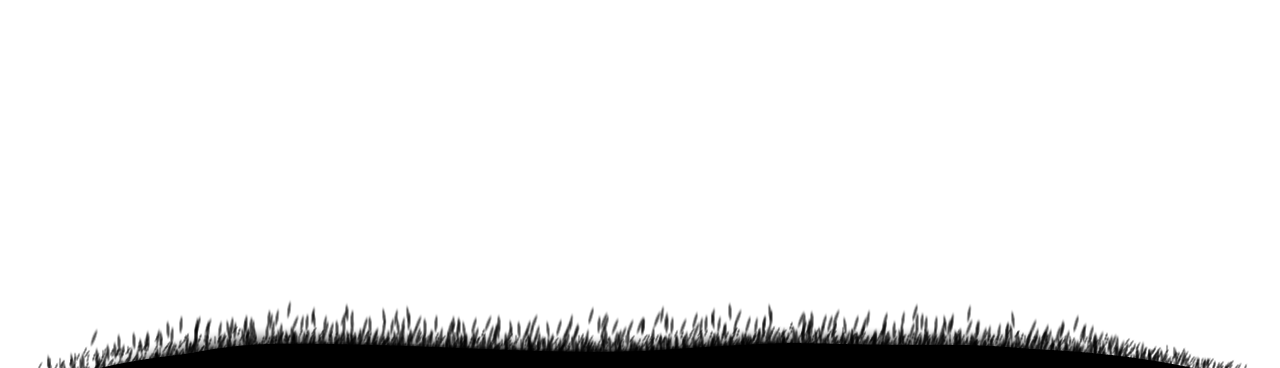
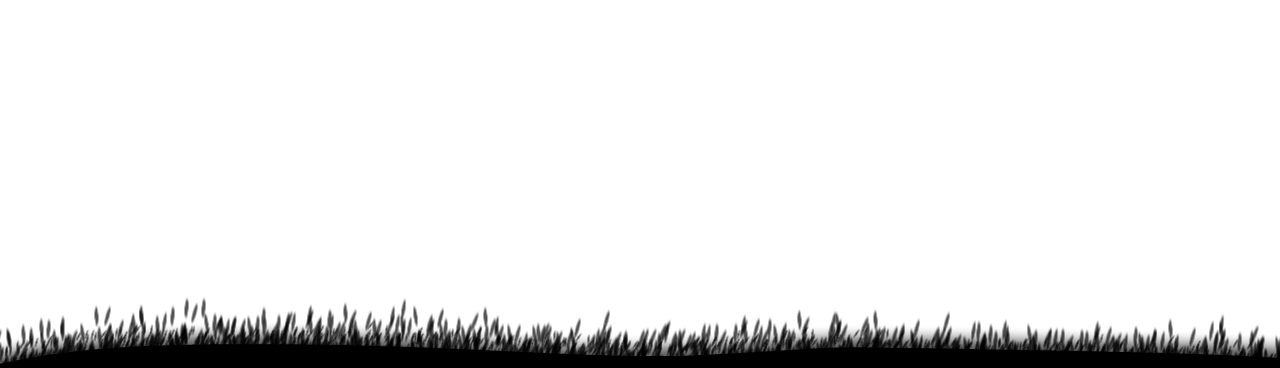
Lyndas review tweaks

Changed region(s): [[0.0, 0.8071, 1.0, 1.0]]

diff --git a/pages/index.js b/pages/index.js
@@ -88,7 +88,7 @@ export default function Home() {
           <h2 className="text-gray-50">SERVICES</h2>
           <h3>What I offer</h3>
 
-          <div className="grid md:grid-cols-3 gap-8">
+          <div className="grid lg:grid-cols-3 gap-8">
             <div className="wrapper antialiased text-gray-900">
               <div>
                 <img
@@ -99,34 +99,33 @@ export default function Home() {
 
                 <div className="relative px-4 -mt-16">
                   <div className="bg-white p-6 rounded-lg shadow-xl">
-                    <h4 className="mt-1 text-xl font-semibold uppercase leading-tight truncate">
+                    <h4 className="mt-1 h-14 text-xl font-semibold uppercase leading-tight truncate">
                       Reiki Healing
                     </h4>
-                    <div className="mt-2 mb-4">
-                      £70
-                      <span className="text-gray-600 text-sm">
-                        /per session
+                    <div className="mt-2 mb-4 font-semibold">
+                      £25
+                      <span className="text-gray-600 font-normal text-sm">
+                        /per treatment.
+                        <br />
+                        Pre-arranged booking required.
                       </span>
                     </div>
                     <p>
-                      Reiki is a Japanese word meaning Universal Life Force
-                      Energy.
-                    </p>{' '}
-                    <p>
-                      Reiki is a Japanese form of energy healing, which is a
-                      subset of alternative medicine, a natural method of
-                      healing.
+                      Reiki means Universal Life Force Energy in Japanese. Reiki
+                      is a Japanese form of energy healing, which is a subset of
+                      alternative medicine, a natural method of healing.
                     </p>
                     <h4 className="mt-4 font-semibold">Service Overview</h4>
                     <p>
                       Reiki is a hands on healing method which uses Universal
                       Life Force Energy.
-                    </p>{' '}
+                    </p>
                     <p>
                       This is transferred through the Reiki Master to the
                       patient in order to encourage emotional and physical
                       healing which contributes to a persons well being.
                     </p>
+                    <p>Confidentiality is respected at all times.</p>
                     <h4 className="mt-4 font-semibold">Benefits</h4>
                     <ul className="pl-8 mb-4 list-disc">
                       <li>Relieves pain, anxiety, and fatigue</li>
@@ -134,9 +133,7 @@ export default function Home() {
                       <li>Boosts mood</li>
                       <li>Treats depression</li>
                       <li>Accelerates The Body’s Self-Healing Ability</li>
-                      <li>
-                        Cleanses Body of Toxins and Supports Immune System
-                      </li>
+                      <li>Cleanses Body of Toxins</li>
                     </ul>
                     <div>
                       <Link className="noStyle" to="Contact" {...linkProps}>
@@ -158,14 +155,16 @@ export default function Home() {
 
                 <div className="relative px-4 -mt-16  ">
                   <div className="bg-white p-6 rounded-lg shadow-xl">
-                    <h4 className="mt-1 text-xl font-semibold uppercase leading-tight">
+                    <h4 className="mt-1 h-14 text-xl font-semibold uppercase leading-tight">
                       Namaste Meditation Circle
                     </h4>
 
-                    <div className="mt-2 mb-4">
-                      £30
-                      <span className="text-gray-600 text-sm">
-                        /per session
+                    <div className="mt-2 mb-4 font-semibold">
+                      £5
+                      <span className="text-gray-600 font-normal text-sm">
+                        /per session.
+                        <br />
+                        Request to join our next session.
                       </span>
                     </div>
 
@@ -201,7 +200,7 @@ export default function Home() {
                     </ul>
                     <div>
                       <Link className="noStyle" to="Contact" {...linkProps}>
-                        <Button variant="secondary">Find out more</Button>
+                        <Button variant="secondary">Request to join</Button>
                       </Link>
                     </div>
                   </div>
@@ -219,29 +218,41 @@ export default function Home() {
 
                 <div className="relative px-4 -mt-16  ">
                   <div className="bg-white p-6 rounded-lg shadow-xl">
-                    <h4 className="mt-1 text-xl font-semibold uppercase leading-tight">
+                    <h4 className="mt-1 h-14 text-xl font-semibold uppercase leading-tight">
                       One to One Meditation Sessions
                     </h4>
 
-                    <div className="mt-2 mb-4">
-                      £50
-                      <span className="text-gray-600 text-sm">
-                        /per session
+                    <div className="mt-2 mb-4 font-semibold">
+                      £10
+                      <span className="text-gray-600 text-sm font-normal">
+                        /per session. <br />
+                        Pre-arranged booking required.
                       </span>
                     </div>
 
                     <p>
                       If you are new to Meditation I would recommend one to one
-                      sessions until you feel comfortable with joining the main
-                      group.
+                      sessions as an introduction until you feel comfortable
+                      with joining the main group.
                     </p>
 
-                    <p>This will be a guided session ...</p>
+                    <p>
+                      One to one sessions are held at my home in Martham,
+                      Norfolk. Please call, text or use the contact form below
+                      to arrange a day and time which suits you.
+                    </p>
 
                     <h4 className="mt-4 font-semibold">Service Overview</h4>
-                    <p>These can be done at my home or remotely using Zoom.</p>
+                    <p>
+                      This is a guided introduction designed for those seeking
+                      to learn more about mediation and how to meditate in an
+                      environment that is a little more personal than a group
+                      session.
+                    </p>
+
                     <h4 className="mt-4 font-semibold">Benefits</h4>
                     <ul className="pl-8 mb-4 list-disc">
+                      <li>One to one guidance</li>
                       <li>Lowers high blood pressure</li>
                       <li>Improves the immune system</li>
                       <li>Decreases anxiety</li>
@@ -264,66 +275,68 @@ export default function Home() {
         <Reviews />
       </main>
 
-      <div
-        id="Contact"
-        className="bg-gray-800 text-white bg-bg-footer bg-no-repeat bg-bottom"
-      >
-        <div className="mx-auto relative lg:max-w-screen-xl p-8 pb-0 pt-16">
-          <h2>CONTACT</h2>
-          <h3>Get in touch</h3>
-          <div className="grid md:grid-cols-2 gap-y-8 pt-8">
-            <div className="col-span-1">
-              <p className="text-xl">Lynda Warne</p>
+      <div className="flex flex-col min-h-screen">
+        <div
+          id="Contact"
+          className="bg-gray-800 text-white bg-bg-footer bg-repeat-x bg-bottom"
+        >
+          <div className="mx-auto relative lg:max-w-screen-xl p-8 pb-0 pt-16">
+            <h2>CONTACT</h2>
+            <h3>Get in touch</h3>
+            <div className="grid md:grid-cols-2 gap-y-8 pt-8">
+              <div className="col-span-1">
+                <p className="text-xl">Lynda Warne</p>
 
-              <p>
-                Address: <br />
-                Bailey Close, <br />
-                Martham, <br />
-                Great Yarmouth, <br />
-                Norfolk, NR29 4UD
-              </p>
+                <p>
+                  Address: <br />
+                  Bailey Close, <br />
+                  Martham, <br />
+                  Great Yarmouth, <br />
+                  Norfolk, NR29 4UD
+                </p>
 
-              <p>Email: lyndawarne1@aol.com</p>
-              <p>Phone: 07984 828407</p>
+                <p>Email: lyndawarne1@aol.com</p>
+                <p>Phone: 07984 828407</p>
+              </div>
+              <div className="col-span-1 row-span-2 mb-28">
+                <p className="text-xl">Message me</p>
+
+                <Formik
+                  initialValues={{ name: '', email: '' }}
+                  onSubmit={async (values) => {
+                    await new Promise((resolve) => setTimeout(resolve, 500))
+                    alert(JSON.stringify(values, null, 2))
+                  }}
+                >
+                  <Form>
+                    <label htmlFor="Name">Name</label>
+                    <Field id="Name" name="name" type="text" />
+                    <label htmlFor="Email">Email</label>
+                    <Field id="Email" name="email" type="email" />
+                    <label htmlFor="Email">Phone number</label>
+                    <Field id="Phone" name="phone" type="phone" />
+                    <label htmlFor="Message">Message</label>
+                    <textarea id="Message" name="message" rows="4" />
+                    <button type="submit" className="float-right mt-8">
+                      Submit
+                    </button>
+                  </Form>
+                </Formik>
+              </div>
+              <div
+                style={{ filter: 'brightness(0)' }}
+                className="col-span-1 absolute md:w-1/3 h-72 bottom-0 bg-main-hero bg-cover bg-contain bg-no-repeat bg-center"
+              ></div>
             </div>
-            <div className="col-span-1 row-span-2 mb-28">
-              <p className="text-xl">Message me</p>
-
-              <Formik
-                initialValues={{ name: '', email: '' }}
-                onSubmit={async (values) => {
-                  await new Promise((resolve) => setTimeout(resolve, 500))
-                  alert(JSON.stringify(values, null, 2))
-                }}
-              >
-                <Form>
-                  <label htmlFor="Name">Name</label>
-                  <Field id="Name" name="name" type="text" />
-                  <label htmlFor="Email">Email</label>
-                  <Field id="Email" name="email" type="email" />
-                  <label htmlFor="Email">Phone number</label>
-                  <Field id="Phone" name="phone" type="phone" />
-                  <label htmlFor="Message">Message</label>
-                  <textarea id="Message" name="message" rows="4" />
-                  <button type="submit" className="float-right mt-8">
-                    Submit
-                  </button>
-                </Form>
-              </Formik>
-            </div>
-            <div
-              style={{ filter: 'brightness(0)' }}
-              className="col-span-1 absolute md:w-1/3 h-72 bottom-0 bg-main-hero bg-cover bg-contain bg-no-repeat bg-center"
-            ></div>
           </div>
         </div>
-      </div>
 
-      <footer className="relative bg-black text-gray-600 text-xs h-80">
-        <span className="absolute w-full bottom-4 text-center">
-          Copyright © 2021 - Chris Marston
-        </span>
-      </footer>
+        <footer className="relative bg-black text-gray-600 text-xs h-16 flex-grow">
+          <span className="absolute w-full bottom-4 text-center">
+            Copyright © 2021 - Chris Marston
+          </span>
+        </footer>
+      </div>
     </div>
   )
 }

diff --git a/components/Hero/Hero.js b/components/Hero/Hero.js
@@ -1,7 +1,6 @@
 import { useEffect } from 'react'
 
 import { Link } from 'react-scroll'
-import { ArrowDownCircle } from 'styled-icons/bootstrap'
 
 import { linkProps } from '../../constants/linkProps'
 import Button from '../Button/Button'
@@ -20,32 +19,28 @@ const Hero = () => {
 
   return (
     <div className=" text-white overflow-hidden">
-      <div className="flex grid md:grid-cols-12 items-center md:mt-20 mb-8">
+      <div className="flex grid md:grid-cols-12 items-center text-center md:text-left md:mt-20 mb-8">
         <div className="md:col-span-7 md:pl-16">
-          <h1 className="font-serif text-5xl md:text-5xl lg:text-7xl">
+          <h1 className="font-serif text-6xl md:text-5xl lg:text-7xl">
             Reiki and meditation for your health and well being
           </h1>
 
-          <div className="mt-6 mb-8 text-sm font-extralight">
+          <div className="mt-6 mb-20 text-sm font-extralight">
             <span className="mr-4">Reduce stress. </span>
             <span className="mr-4">Control anxiety. </span>
             <span>Boost immunity.</span>
           </div>
-
-          <Button>
-            <Link className="noStyle" to="Services" {...linkProps}>
-              Services
-            </Link>
-          </Button>
+          <div className="hidden md:inline">
+            <Button>
+              <Link className="noStyle" to="Services" {...linkProps}>
+                Services
+              </Link>
+            </Button>
+          </div>
         </div>
-        <div className="hidden md:inline md:col-span-5">
+        <div className="md:col-span-5">
           <img className="mx-auto" src="./images/main.png" alt="" width="80%" />
         </div>
-      </div>
-      <div className="w-full flex content-center items-center justify-center">
-        <Link className="mx-auto" to="About" {...linkProps}>
-          <ArrowDownCircle className="h-10 w-12 my-10 text-green-200" />
-        </Link>
       </div>
     </div>
   )

diff --git a/components/Navbar/Navbar.js b/components/Navbar/Navbar.js
@@ -36,13 +36,13 @@ const Navbar = () => {
         'md:bg-white md:text-gray-800 md:opacity-95 bgVisible'
       }`}
     >
-      <div className="grid lg:grid-cols-2 items-center justify-between mx-auto lg:max-w-screen-xl px-4 md:px-12 py-4">
-        <div className="flex items-center text-5xl lg:text-6xl font-serif">
+      <div className="grid md:grid-cols-12 items-center justify-between mx-auto lg:max-w-screen-xl px-4 md:px-12 py-4">
+        <div className="col-span-4 flex items-center text-5xl lg:text-6xl font-serif">
           <Link to="Main" className="noStyle" {...logoLinkProps}>
             Lynda Warne
           </Link>
         </div>
-        <div className="hidden lg:inline text-right">
+        <div className="hidden md:inline text-right col-span-8">
           <ul className="inline uppercase">
             <li className="inline mr-8">
               <Link to="About" {...linkProps}>

diff --git a/sections/Reviews/Reviews.js b/sections/Reviews/Reviews.js
@@ -71,7 +71,7 @@ const Reviews = () => {
             <div className="lg:px-20 text-white">
               <div className="grid grid-cols-1 lg:px-16">
                 <QuoteLeft className="h-12 w-12 p-1" />
-                <span className="leading-8 px-16 text-xl leading-10 font-extralight italic">
+                <span className="leading-8 px-16 md:text-xl leading-10 font-extralight italic">
                   {fb.comment}
                 </span>
                 <div className="flex justify-end">

diff --git a/components/Container/Container.js b/components/Container/Container.js
@@ -9,7 +9,7 @@ const Container = ({ children, variant, id }) => {
       {variant === 'hero' && (
         <div className="absolute bottom-0 z-negative w-full h-2/3 bg-wave bg-cover bg-no-repeat bg-center"></div>
       )}
-      <div className={`mx-auto lg:max-w-screen-xl pt-16 px-2 sm:px-8`}>
+      <div className={`mx-auto lg:max-w-screen-xl pt-16 px-4 sm:px-8`}>
         {children}
       </div>
     </div>
